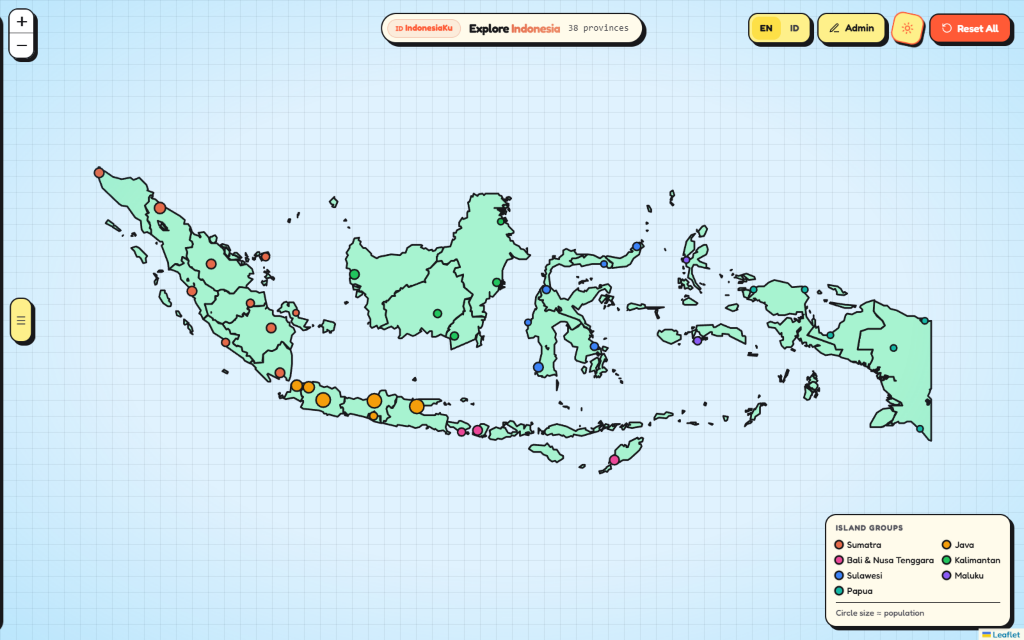
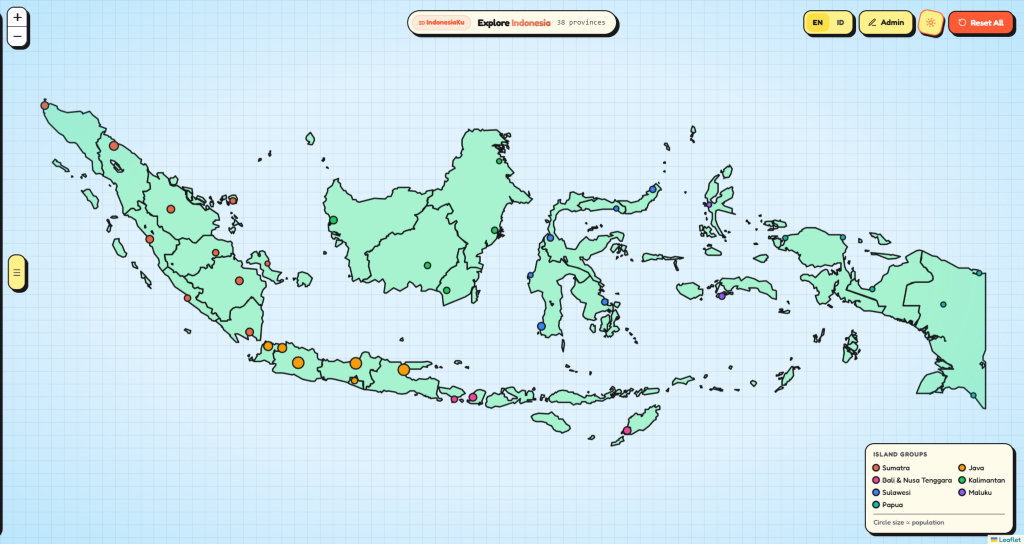
Update map screenshots to full edge-to-edge zoom and add Admin page screenshot

diff --git a/README.md b/README.md
@@ -7,7 +7,7 @@ An interactive full-stack web application exploring all **38 provinces of Indone
 ### Interactive Map — Light Theme (English)
 ![IndonesiaKu Map — Light Theme](docs/screenshots/map-light.png)
 
-### Interactive Map — Dark Theme & Sidebar (Bahasa Indonesia)
+### Interactive Map — Dark Theme (Bahasa Indonesia)
 ![IndonesiaKu Map — Dark Theme & Bahasa Indonesia](docs/screenshots/map-dark-id.png)
 
 ### Interactive Map — Cartoon Theme
@@ -18,6 +18,9 @@ An interactive full-stack web application exploring all **38 provinces of Indone
 
 ### Capital Video Player Popup
 ![Capital Video Player Popup](docs/screenshots/capital-video-popup.png)
+
+### Admin CMS (`/admin`)
+![IndonesiaKu Admin CMS](docs/screenshots/admin-page.png)
 
 ## Features
 
@@ -41,6 +44,7 @@ IndonesiaKu/
       map-cartoon.png
       province-popup-gallery.png
       capital-video-popup.png
+      admin-page.png
   scripts/
     seed-descriptions.mjs
     curate-scenic-photos.mjs
